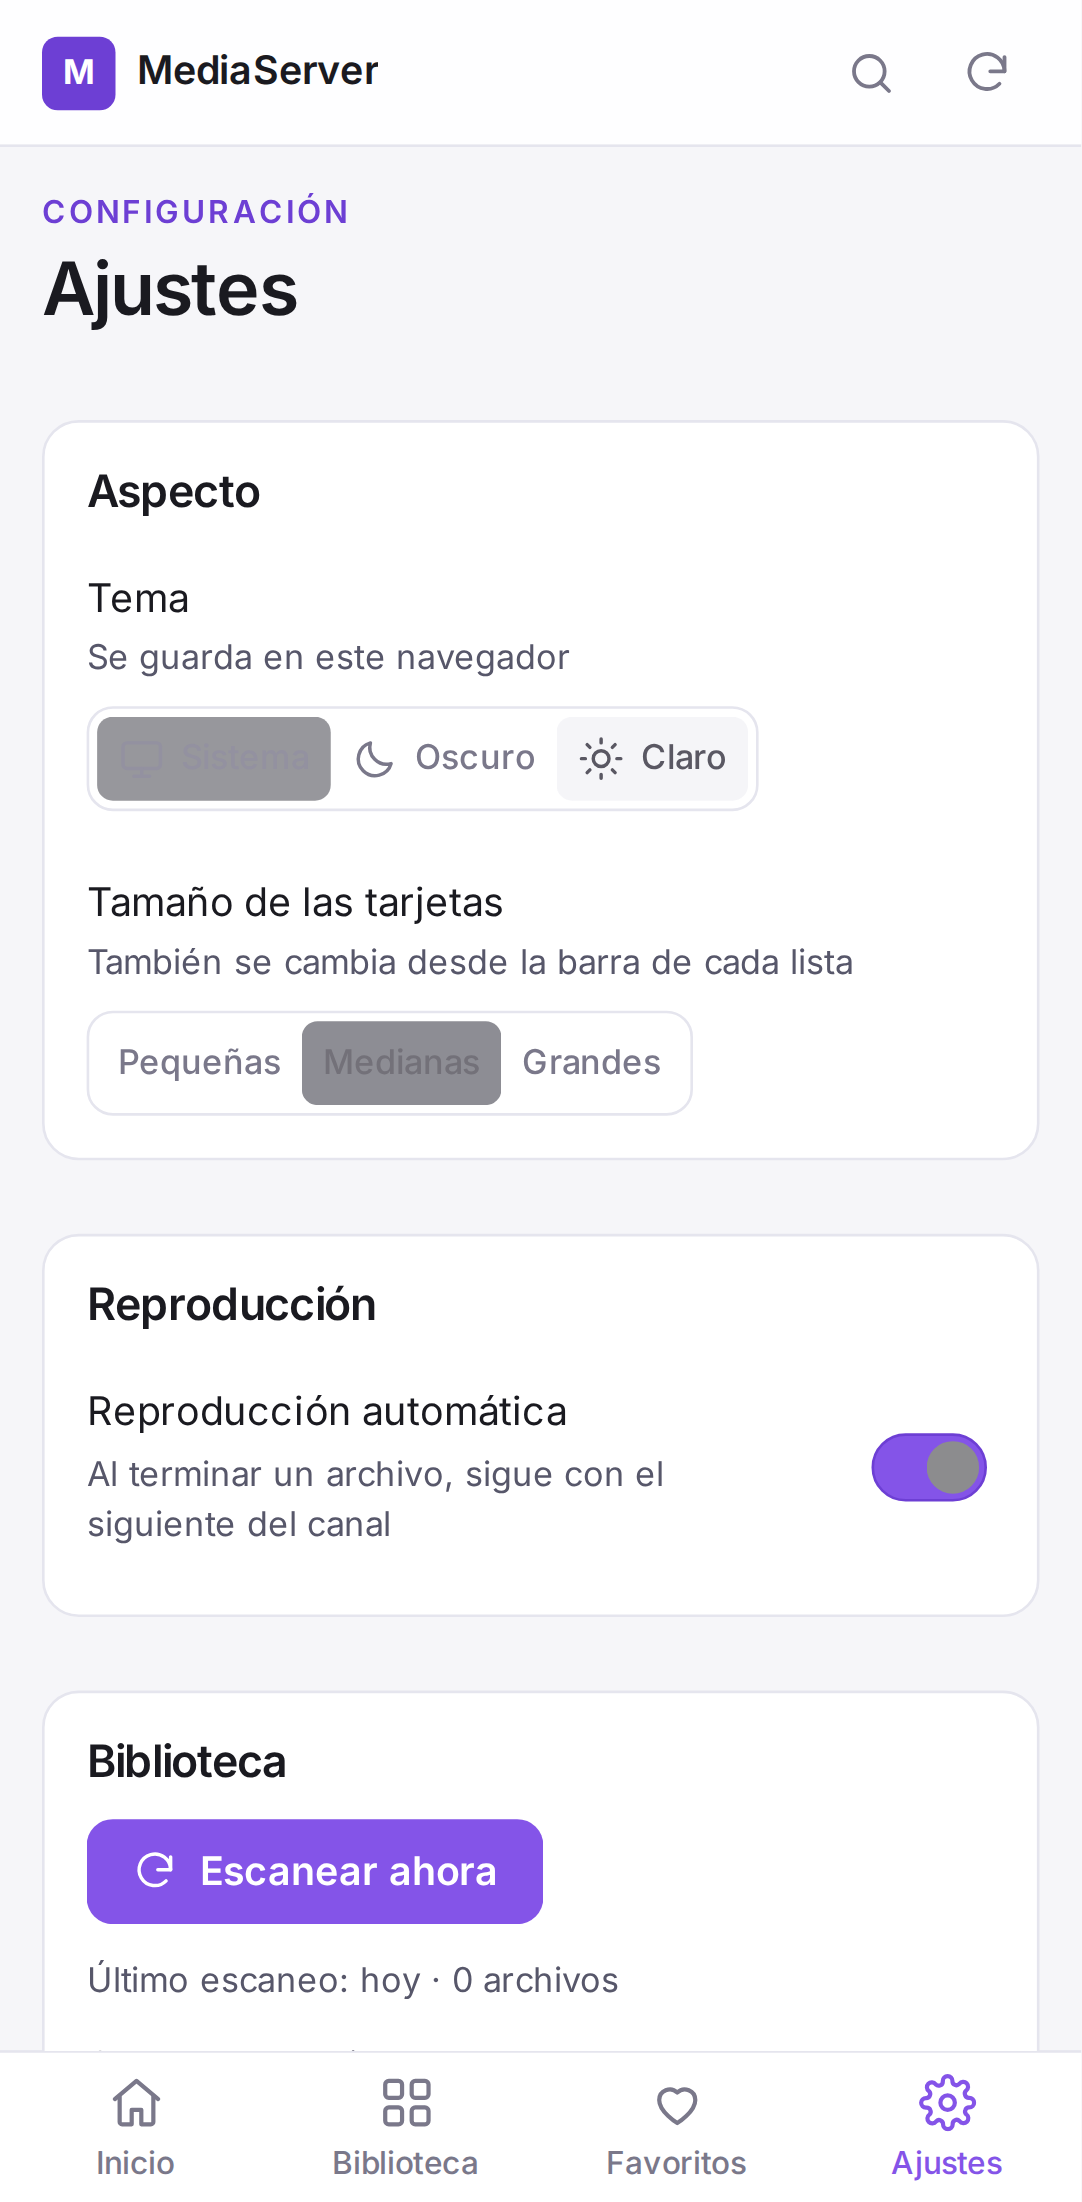
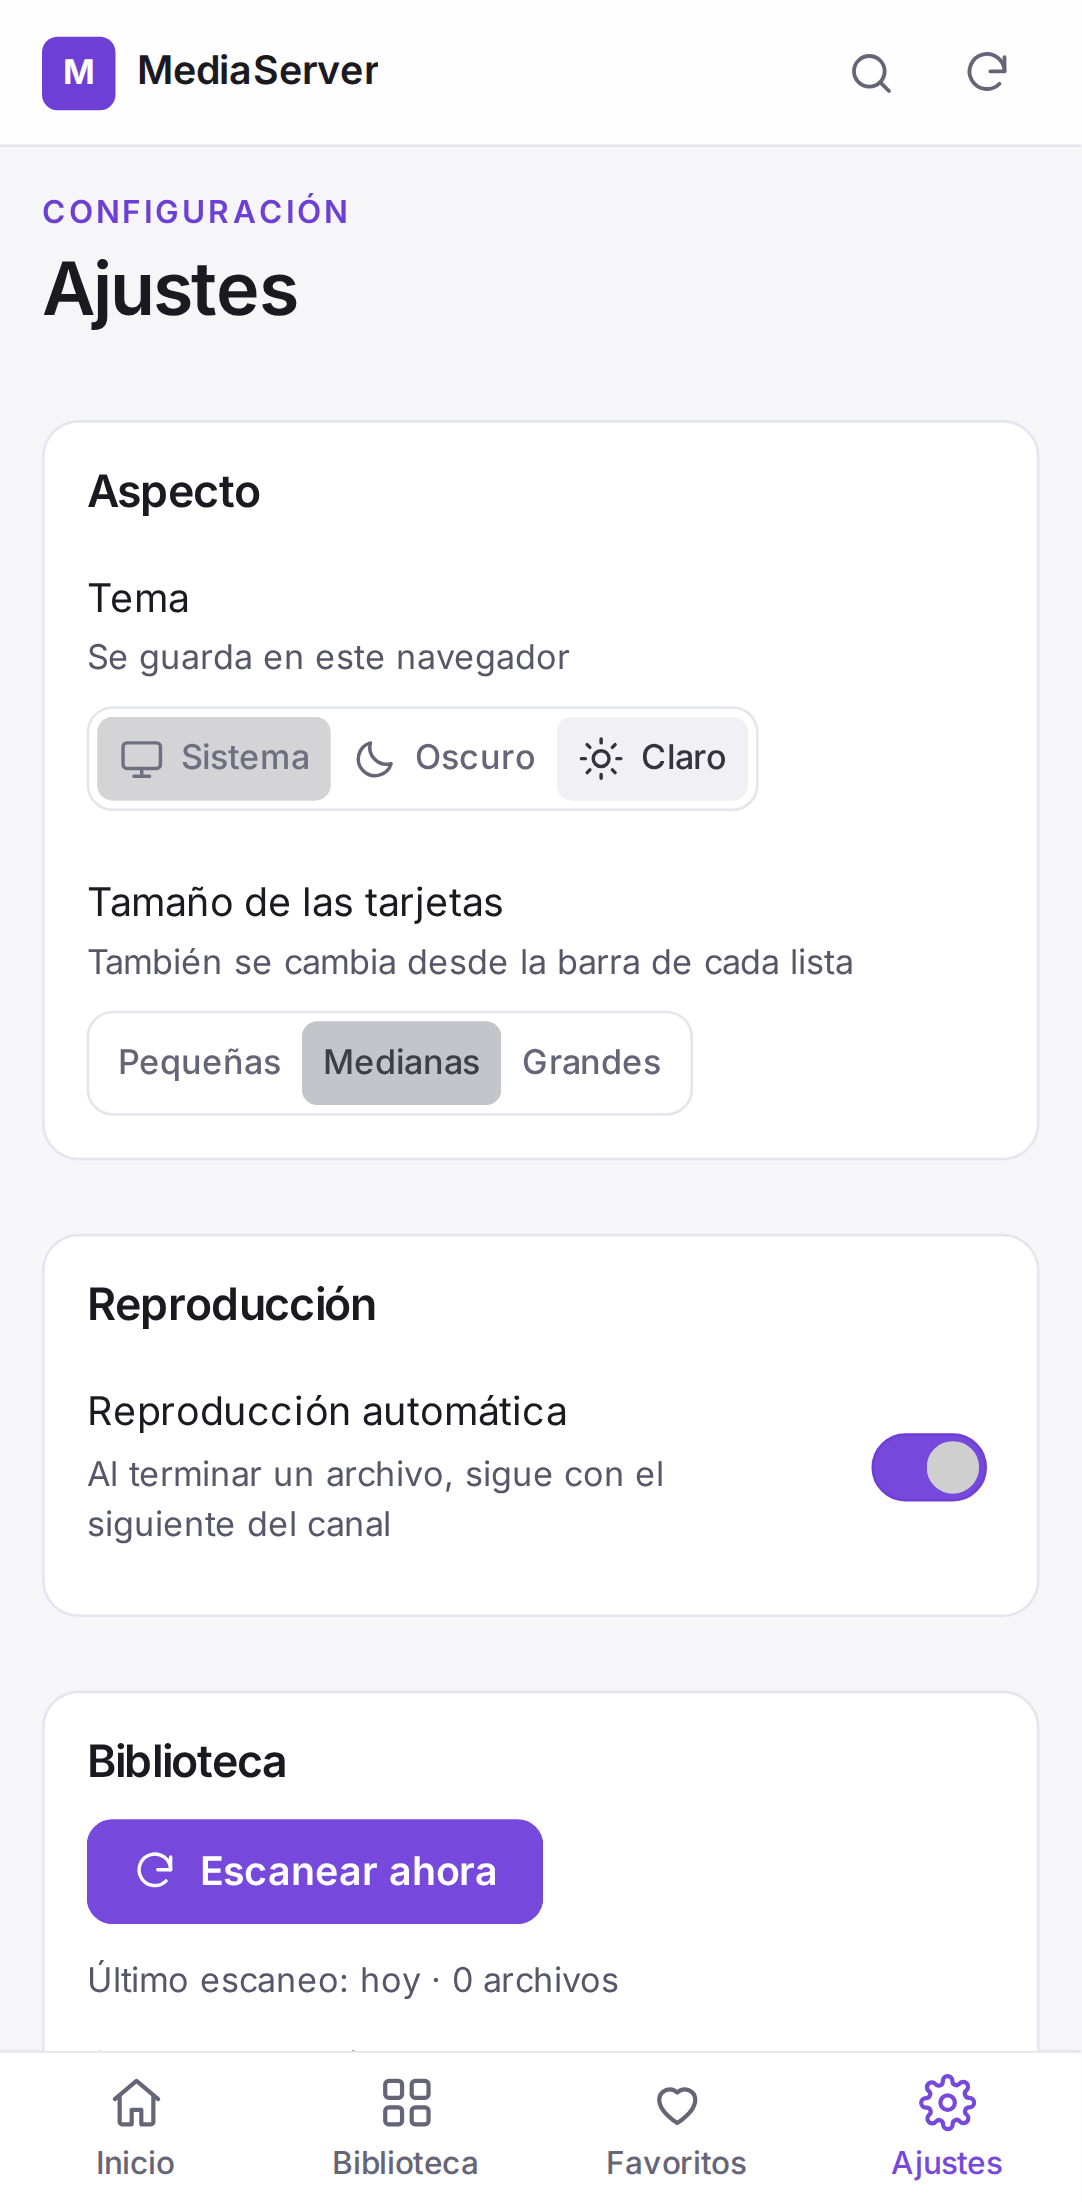
Reproducir los formatos de audio que el reproductor no reconoce
Síntoma: algunos audios cargaban la duración pero no sonaban nunca; al pulsar
play saltaba «[vidstack] media not ready» y no se montaba ni el elemento de
medios.

Causa: `mediaSource` declaraba `.m4a`, `.aac` y `.wav` como `audio/object`, y
`.mkv` como `video/object`, con la idea de no mentir con un MIME que el
reproductor no soporta. Es justo al revés: en Vidstack esos dos tipos sólo
valen para URLs `blob:`, y como la nuestra es `/api/stream/59` (sin extensión),
su comprobación

    esAudio = /\.(m4a|...|wav|aac|...)$/.test(src) || TIPOS_AUDIO.has(type)

da falso por los dos lados. Conclusión del reproductor: la fuente no es audio,
así que no monta nada y `play()` lanza «media not ready». La lista de tipos que
acepta de verdad es cerrada: se usan los que reconoce.

Medido con archivos de prueba en los siete formatos, antes y después:

    antes:   .mp3 ✅  .flac ✅  .ogg ✅  .opus ✅  .wav ❌  .m4a ❌  .aac ❌
    después: los siete ✅

Los tipos van ahora separados en audio y vídeo (`AudioPlayerMime` /
`VideoPlayerMime`), de modo que declarar un MIME de audio para una fuente de
vídeo no compila. El `.d.ts` de Vidstack no incluye `audio/mp4` aunque su
runtime sí lo reconoce, así que el ajuste de tipos se hace en un único punto,
documentado.

Pruebas: unitaria que recorre todas las extensiones contra la lista reconocida,
end-to-end que reproduce un m4a y un wav de verdad (fixtures nuevos), y
comprobación de los 13 audios de la biblioteca real dentro del contenedor.

diff --git a/src/lib/media.ts b/src/lib/media.ts
@@ -1,44 +1,70 @@
 import type { Item } from './types.js';
 
 /**
- * Tipos que entiende Vidstack (su unión de MIME es cerrada). El servidor sigue
- * enviando el `Content-Type` real; esto sólo es la pista para elegir proveedor.
+ * Tipos que el reproductor reconoce.
+ *
+ * La lista es **cerrada** y no es decorativa: el reproductor la usa como
+ * interruptor para decidir si la fuente es audio o vídeo y qué proveedor montar.
+ * El MIME real del archivo lo envía el servidor en el `Content-Type`; esto sólo
+ * es la pista.
+ *
+ * Ojo con `audio/object` y `video/object`: parecen la opción honesta para los
+ * contenedores que no están en la lista, y son justo lo contrario. Sólo valen
+ * para URLs `blob:`, así que con una URL normal (`/api/stream/59`) el
+ * reproductor concluye que la fuente no es audio, **no monta ningún elemento de
+ * medios** y al pulsar reproducir salta «media not ready». Por eso los formatos
+ * que no están en la lista usan el tipo reconocido más cercano.
  */
-export type PlayerMime =
-  | 'audio/mpeg'
-  | 'audio/ogg'
-  | 'audio/flac'
-  | 'audio/object'
-  | 'video/mp4'
-  | 'video/webm'
-  | 'video/avi'
-  | 'video/object';
+export type AudioPlayerMime = 'audio/mpeg' | 'audio/ogg' | 'audio/flac' | 'audio/mp4';
+export type VideoPlayerMime = 'video/mp4' | 'video/webm' | 'video/avi';
+export type PlayerMime = AudioPlayerMime | VideoPlayerMime;
 
-export type MediaSource = { src: string; type: PlayerMime };
+/** Todo lo que aparece en los mapas de abajo tiene que estar aquí. */
+export const RECOGNISED_PLAYER_TYPES: readonly PlayerMime[] = [
+  'audio/mpeg',
+  'audio/ogg',
+  'audio/flac',
+  'audio/mp4',
+  'video/mp4',
+  'video/webm',
+  'video/avi',
+];
 
-const AUDIO_TYPES: Record<string, PlayerMime> = {
+/**
+ * Fuente para el reproductor. El tipo va separado por audio y vídeo, así que un
+ * MIME de audio en una fuente de vídeo no compila.
+ */
+export type MediaSource = { src: string; type: AudioPlayerMime } | { src: string; type: VideoPlayerMime };
+
+const AUDIO_TYPES: Record<string, AudioPlayerMime> = {
   '.mp3': 'audio/mpeg',
   '.flac': 'audio/flac',
   '.ogg': 'audio/ogg',
   '.opus': 'audio/ogg',
-  '.wav': 'audio/object',
-  '.m4a': 'audio/object',
-  '.aac': 'audio/object',
+  // AAC en contenedor MP4: es el tipo real que envía el servidor.
+  '.m4a': 'audio/mp4',
+  // AAC crudo (ADTS) y WAV no están en la lista del reproductor. El navegador
+  // sigue usando el `Content-Type` del servidor; esto sólo le dice al
+  // reproductor que es audio y que monte el proveedor del navegador.
+  '.aac': 'audio/mp4',
+  '.wav': 'audio/mpeg',
 };
 
-const VIDEO_TYPES: Record<string, PlayerMime> = {
+const VIDEO_TYPES: Record<string, VideoPlayerMime> = {
   '.mp4': 'video/mp4',
   '.mov': 'video/mp4',
   '.webm': 'video/webm',
   '.avi': 'video/avi',
-  '.mkv': 'video/object',
+  // Matroska no está en la lista; además `isProbablyPlayable` ya lo descarta, así
+  // que aquí sólo hace falta no dejar un tipo que rompa el reproductor.
+  '.mkv': 'video/mp4',
 };
 
 /** Fuente reproducible para el reproductor. */
 export function mediaSource(item: Item): MediaSource {
   const extension = item.extension.toLowerCase();
-  const type = item.kind === 'video' ? VIDEO_TYPES[extension] : AUDIO_TYPES[extension];
-  return { src: item.streamUrl, type: type ?? (item.kind === 'video' ? 'video/mp4' : 'audio/mpeg') };
+  if (item.kind === 'video') return { src: item.streamUrl, type: VIDEO_TYPES[extension] ?? 'video/mp4' };
+  return { src: item.streamUrl, type: AUDIO_TYPES[extension] ?? 'audio/mpeg' };
 }
 
 /** Formatos que un navegador de escritorio reproduce de forma fiable. */

diff --git a/src/lib/media.test.ts b/src/lib/media.test.ts
@@ -1,5 +1,5 @@
 import { describe, expect, test } from 'vitest';
-import { isProbablyPlayable, mediaSource } from './media.js';
+import { isProbablyPlayable, mediaSource, RECOGNISED_PLAYER_TYPES } from './media.js';
 import type { Item } from './types.js';
 
 function item(overrides: Partial<Item> = {}): Item {
@@ -32,26 +32,50 @@ describe('mediaSource', () => {
     expect(mediaSource(item({ extension: '.mp4' })).type).toBe('video/mp4');
     expect(mediaSource(item({ extension: '.webm' })).type).toBe('video/webm');
     expect(mediaSource(item({ extension: '.avi' })).type).toBe('video/avi');
-    // .mkv no está en la unión del reproductor: se declara como objeto genérico
-    // en lugar de mentir con un MIME que no soporta.
-    expect(mediaSource(item({ extension: '.mkv' })).type).toBe('video/object');
+    expect(mediaSource(item({ extension: '.mov' })).type).toBe('video/mp4');
   });
 
   test('traduce las extensiones de audio', () => {
     expect(mediaSource(item({ kind: 'audio', extension: '.mp3' })).type).toBe('audio/mpeg');
     expect(mediaSource(item({ kind: 'audio', extension: '.flac' })).type).toBe('audio/flac');
     expect(mediaSource(item({ kind: 'audio', extension: '.opus' })).type).toBe('audio/ogg');
-    expect(mediaSource(item({ kind: 'audio', extension: '.wav' })).type).toBe('audio/object');
+    expect(mediaSource(item({ kind: 'audio', extension: '.m4a' })).type).toBe('audio/mp4');
+    expect(mediaSource(item({ kind: 'audio', extension: '.aac' })).type).toBe('audio/mp4');
   });
 
   test('usa la URL de streaming que sirve el servidor', () => {
     expect(mediaSource(item()).src).toBe('/api/stream/1');
+  });
+
+  /**
+   * Regresión: `.m4a`, `.aac`, `.wav` y `.mkv` se declaraban como
+   * `audio/object` / `video/object`, que en el reproductor sólo valen para URLs
+   * `blob:`. Con una URL normal no montaba el elemento de medios y al pulsar
+   * reproducir saltaba «media not ready». Todos los tipos declarados tienen que
+   * estar en la lista que el reproductor reconoce de verdad.
+   */
+  test('ningún formato declara un tipo que el reproductor no reconozca', () => {
+    const extensiones = ['.mp3', '.flac', '.ogg', '.opus', '.m4a', '.aac', '.wav', '.mp4', '.mov', '.webm', '.avi', '.mkv'];
+    const desconocidos: string[] = [];
+    for (const extension of extensiones) {
+      for (const kind of ['audio', 'video'] as const) {
+        const { type } = mediaSource(item({ kind, extension }));
+        if (!RECOGNISED_PLAYER_TYPES.includes(type)) desconocidos.push(`${extension} → ${type}`);
+      }
+    }
+    expect(desconocidos).toEqual([]);
+  });
+
+  test('un formato desconocido cae en un tipo reconocido, no en `object`', () => {
+    expect(RECOGNISED_PLAYER_TYPES).toContain(mediaSource(item({ kind: 'audio', extension: '.rareza' })).type);
+    expect(RECOGNISED_PLAYER_TYPES).toContain(mediaSource(item({ kind: 'video', extension: '.rareza' })).type);
   });
 });
 
 describe('isProbablyPlayable', () => {
   test('el audio siempre se intenta', () => {
     expect(isProbablyPlayable(item({ kind: 'audio', extension: '.flac' }))).toBe(true);
+    expect(isProbablyPlayable(item({ kind: 'audio', extension: '.m4a' }))).toBe(true);
   });
 
   test('avisa de los contenedores que el navegador no sabe abrir', () => {

diff --git a/tests/e2e/reproductor.spec.ts b/tests/e2e/reproductor.spec.ts
@@ -6,6 +6,30 @@ test.describe('reproductor', () => {
     await login(page);
   });
 
+  /**
+   * Regresión: `.m4a`, `.aac` y `.wav` se declaraban como `audio/object`, que en
+   * el reproductor sólo vale para URLs `blob:`. Con una URL normal no montaba
+   * ningún elemento de medios, así que el archivo no sonaba y el botón de
+   * reproducir lanzaba «media not ready».
+   */
+  test('los formatos que el reproductor no reconoce de fábrica también suenan', async ({ page }) => {
+    for (const archivo of ['Canción Tres', 'Canción Cuatro']) {
+      await goToChannel(page, 'Audio', 'Canciones');
+      await page.getByRole('link', { name: archivo, exact: true }).click();
+
+      const media = page.locator('.player-dock audio, .player-dock video');
+      await expect(media, `${archivo} no montó el reproductor`).toHaveCount(1);
+      await expect
+        .poll(async () => media.evaluate((element: HTMLMediaElement) => element.readyState), { message: `${archivo} no cargó` })
+        .toBeGreaterThanOrEqual(2);
+
+      await page.getByRole('button', { name: 'Reproducir' }).first().click();
+      await expect
+        .poll(async () => media.evaluate((element: HTMLMediaElement) => element.currentTime), { message: `${archivo} no avanza` })
+        .toBeGreaterThan(0);
+    }
+  });
+
   test('abrir un archivo lleva a su ruta y muestra el reproductor completo', async ({ page }) => {
     await goToChannel(page, 'Videos', 'Openings');
     await page.getByRole('link', { name: 'Apertura 01' }).click();

diff --git a/src/components/PlayerDock.tsx b/src/components/PlayerDock.tsx
@@ -1,4 +1,4 @@
-import { MediaPlayer, MediaProvider } from '@vidstack/react';
+import { MediaPlayer, MediaProvider, type PlayerSrc } from '@vidstack/react';
 import { DefaultVideoLayout, defaultLayoutIcons } from '@vidstack/react/player/layouts/default';
 import { useState } from 'react';
 import { useLocation, useMatch, useNavigate } from 'react-router-dom';
@@ -58,7 +58,11 @@ export function PlayerDock() {
               ref={playerRef}
               className="player-media"
               title={current.title}
-              src={source}
+              // El `.d.ts` de Vidstack se queda corto: en ejecución reconoce
+              // `audio/mp4` (y `audio/m4a`, `audio/mp4a`), pero su unión pública
+              // no los declara. Se usa el tipo real del archivo —que es lo que
+              // el reproductor comprueba— y el ajuste de tipos se hace aquí.
+              src={source as unknown as PlayerSrc}
               viewType={current.kind}
               poster={current.kind === 'video' ? (current.artworkUrl ?? undefined) : undefined}
               playsInline
